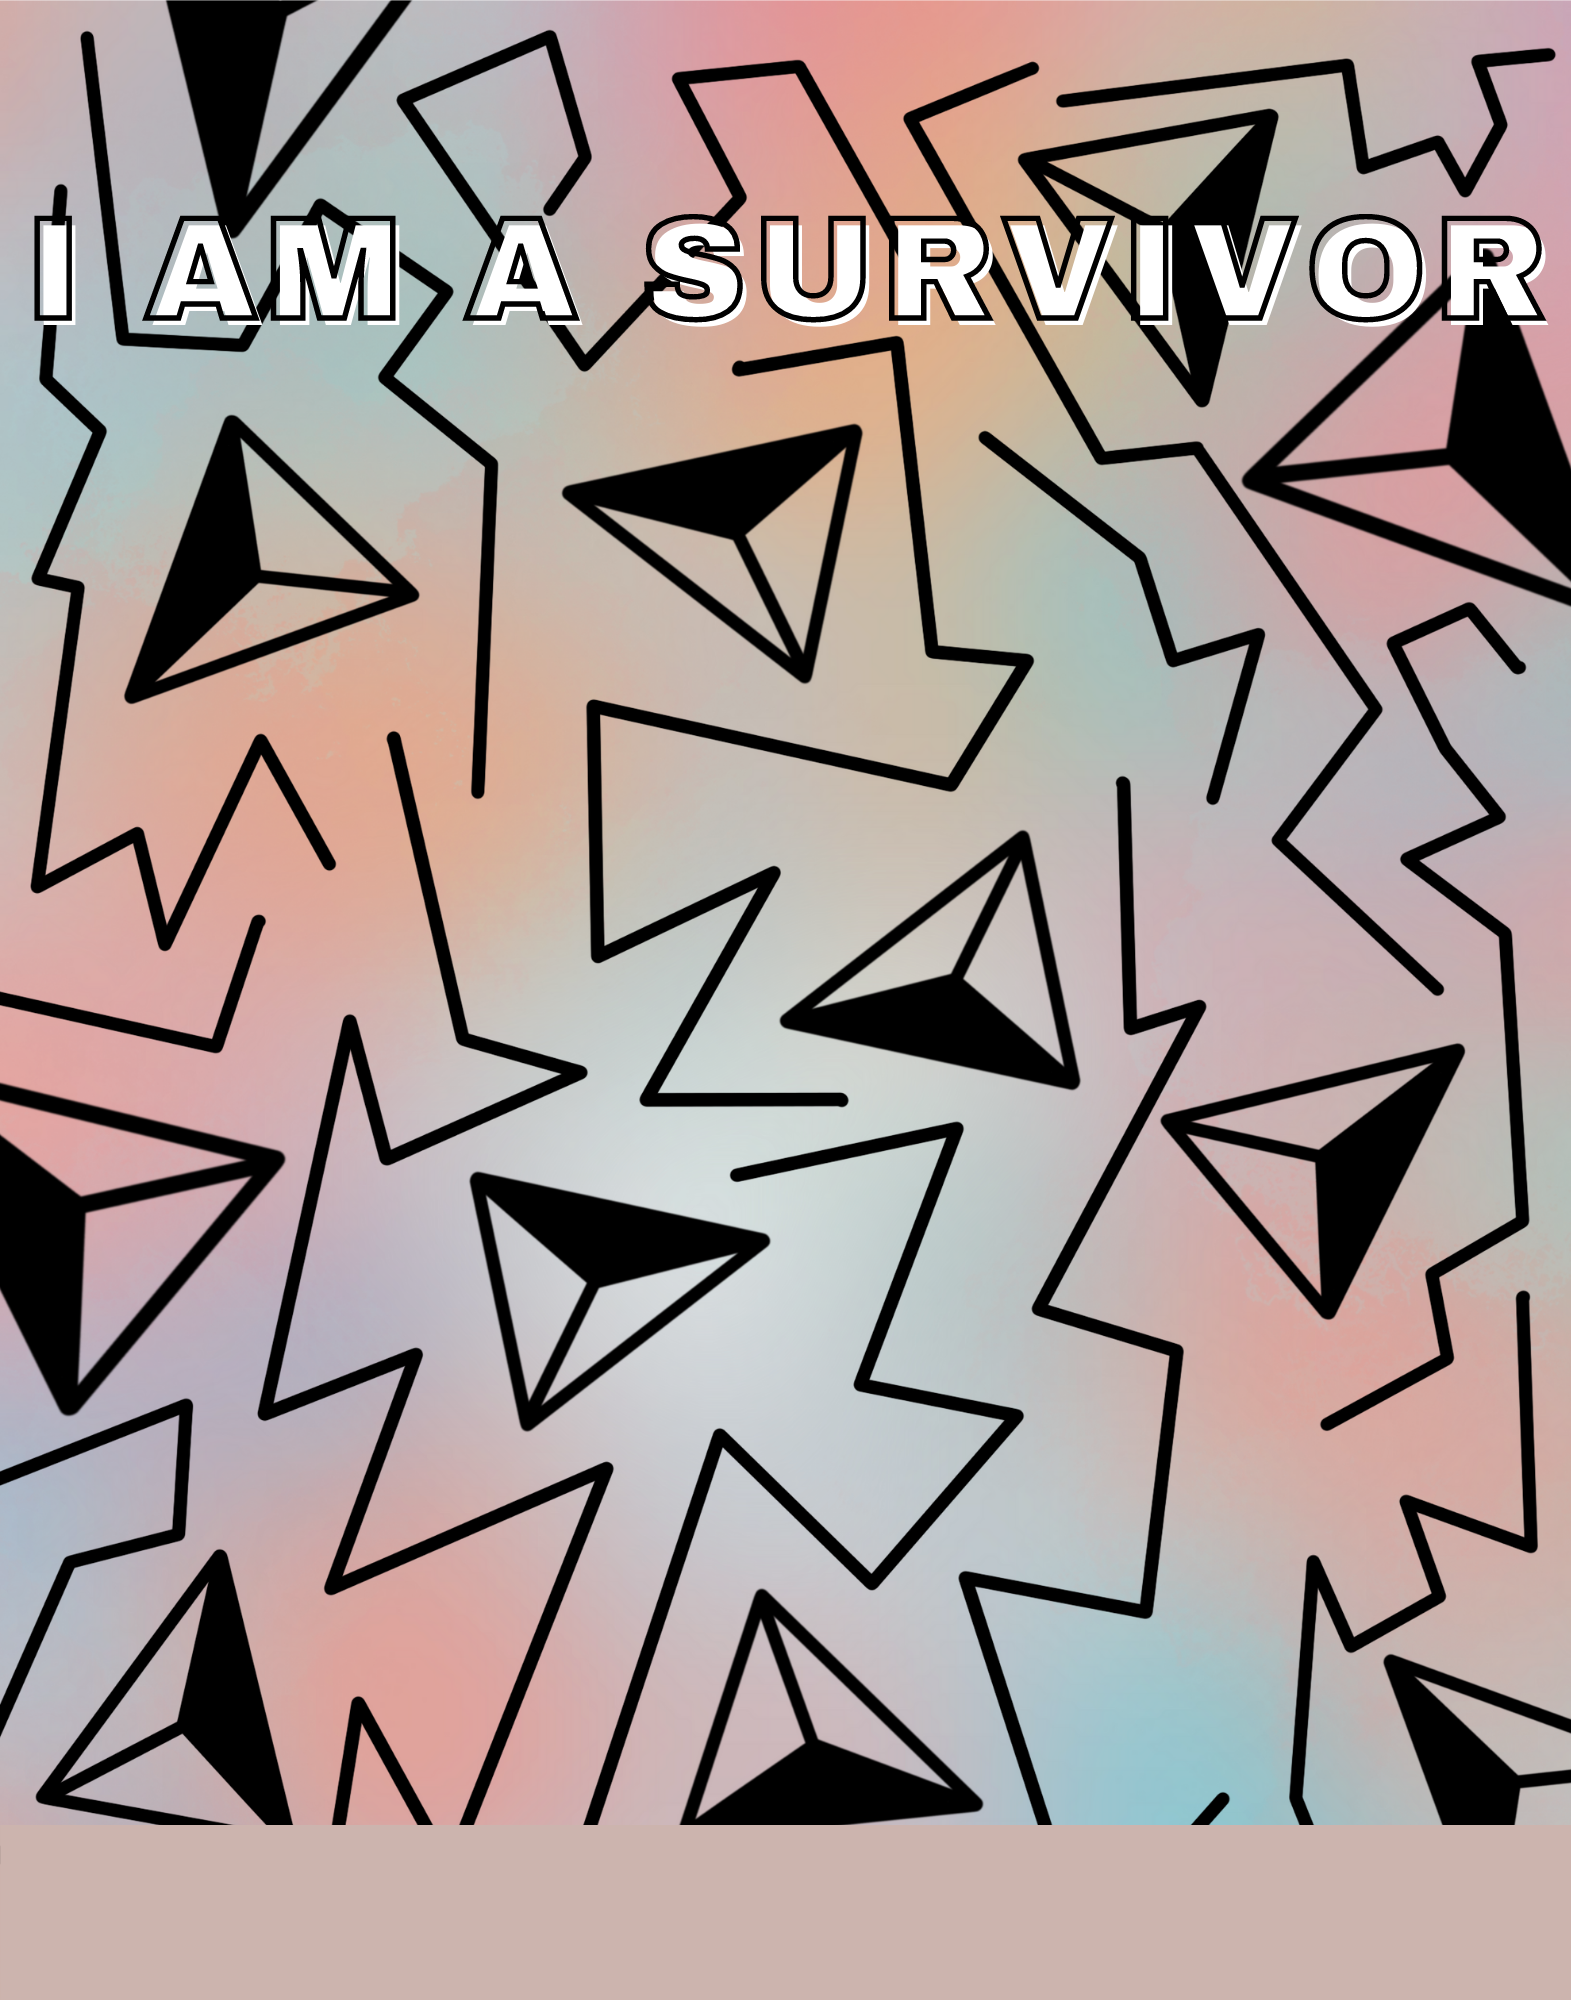
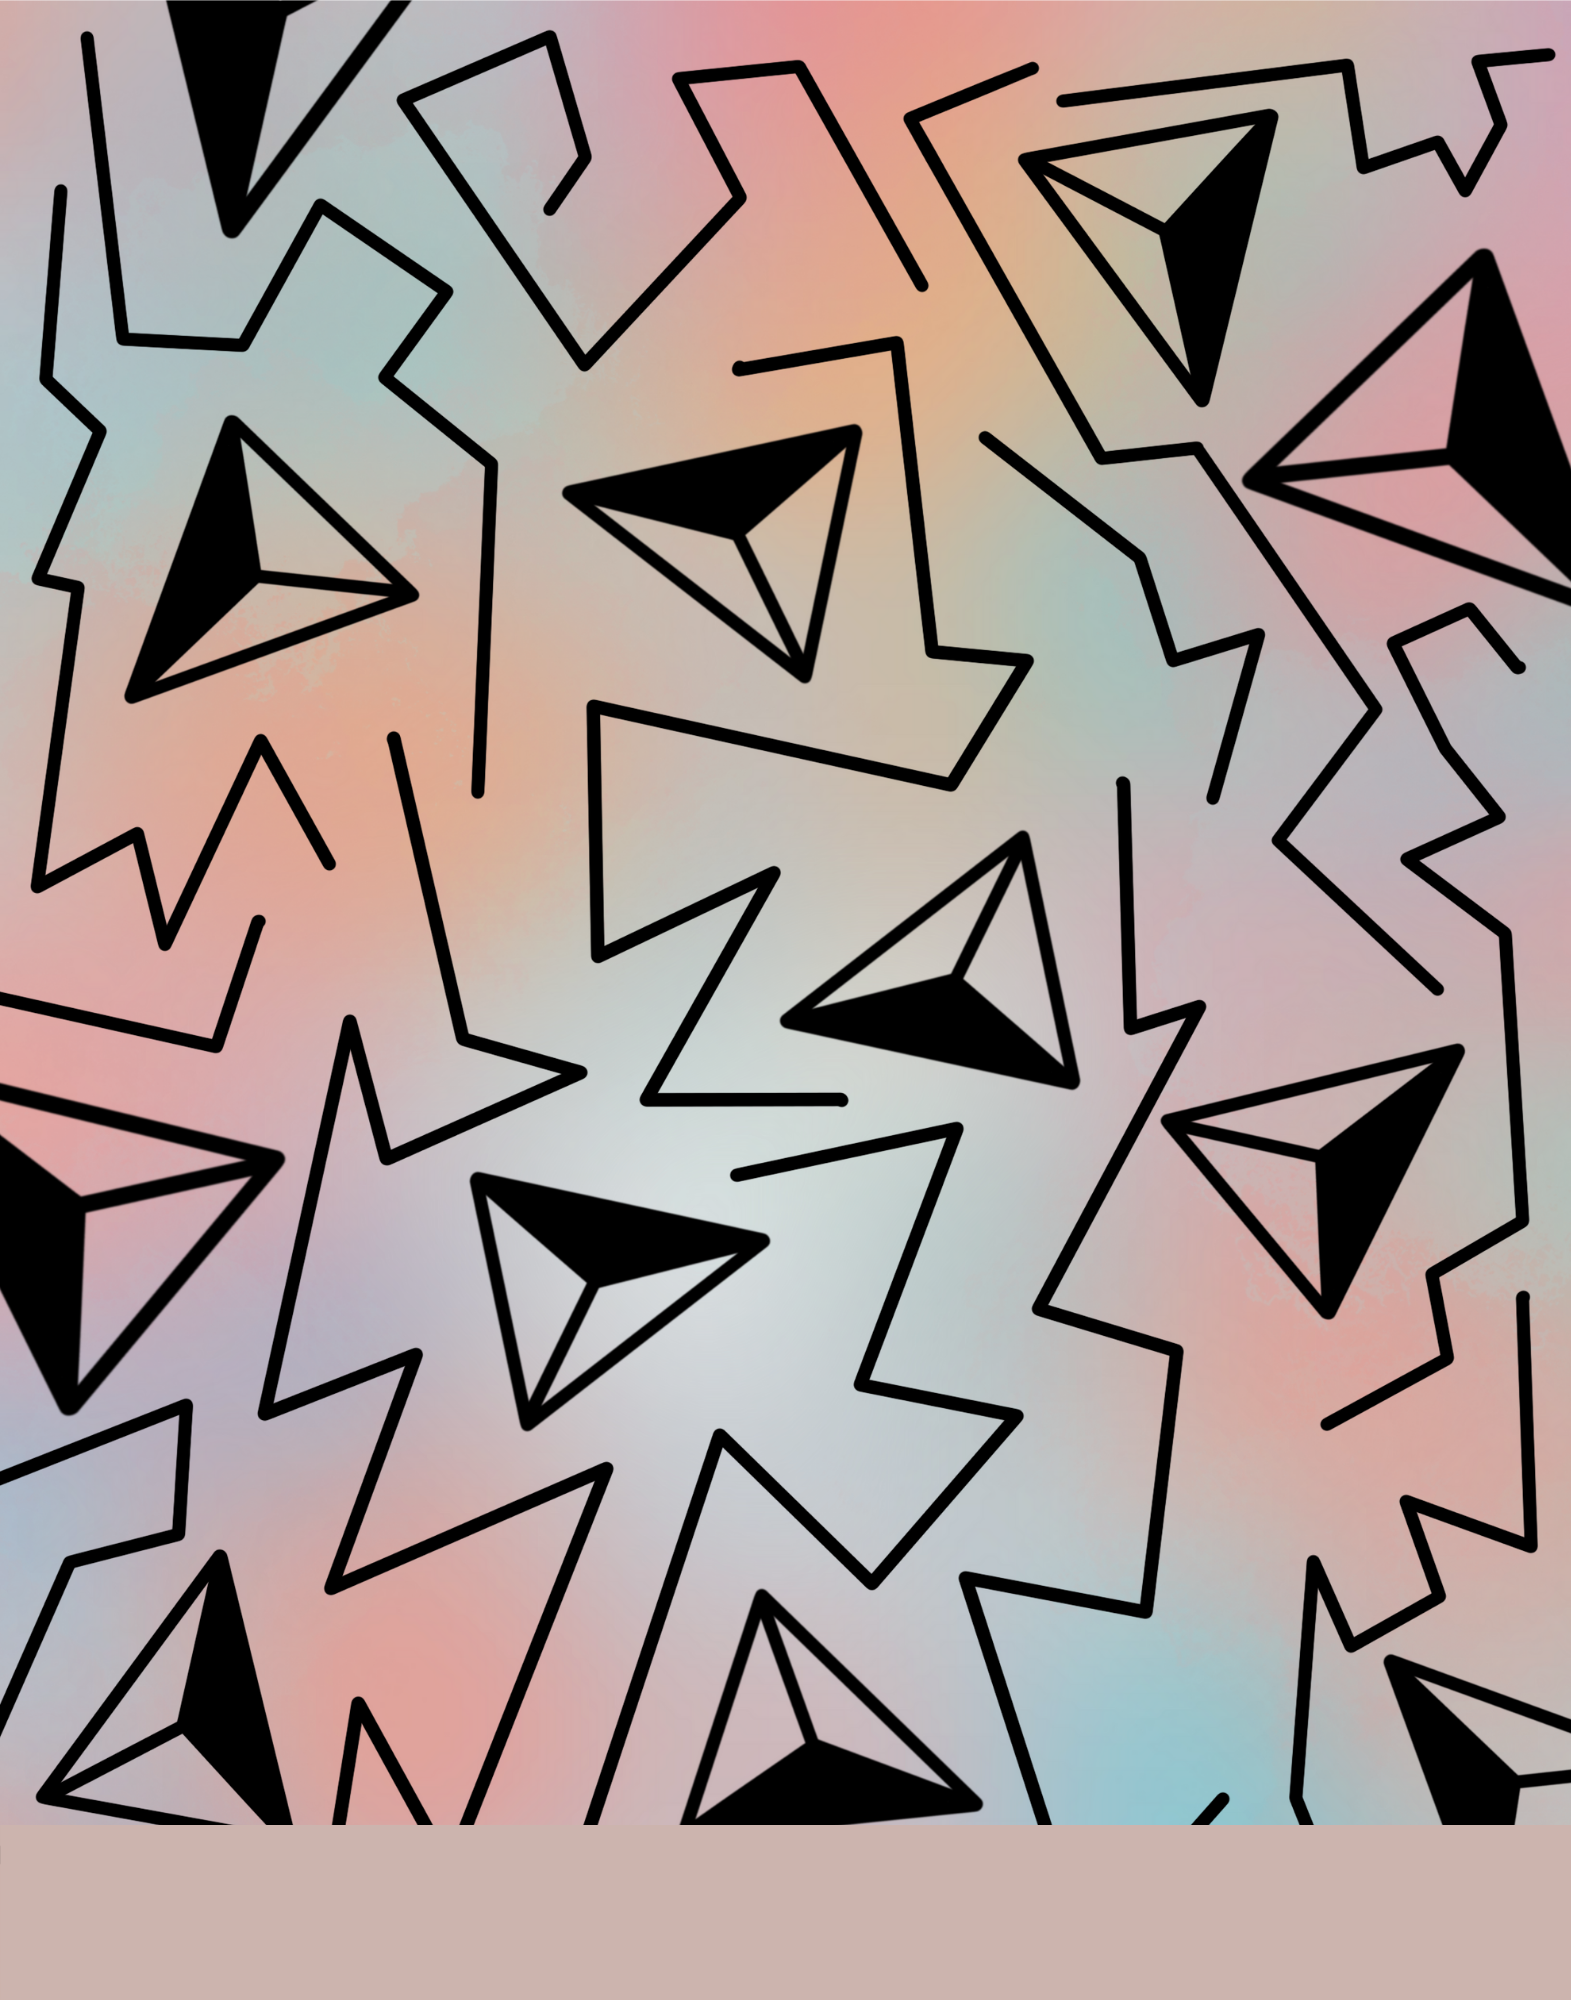
Add language support. Cleanup default picture behavior.

Changed region(s): [[0.4055, 0.093, 0.9981, 0.186], [0.0936, 0.093, 0.3743, 0.186], [0.0, 0.093, 0.0624, 0.186]]

diff --git a/src/template_form.tsx b/src/template_form.tsx
@@ -25,6 +25,7 @@ export interface Props {
 interface State {
   background?: number
   size?: number
+  language?: number
   website?: string
   program_info?: string
   logo?: string
@@ -57,6 +58,7 @@ export class TemplateForm extends Component<Props, State> {
     this.state = {
       background: 0,
       size: 0,
+      language: 0,
       website: "",
       program_info: "",
       use_default_pic: true,
@@ -70,6 +72,7 @@ export class TemplateForm extends Component<Props, State> {
     this.setState({
       background: 0,
       size: 0,
+      language: 0,
       website: "",
       program_info: "",
       logo: undefined,
@@ -180,17 +183,21 @@ export class TemplateForm extends Component<Props, State> {
 
   private getRenderChildren(): Array<RenderElement> {
     let campaign = this.props.campaign;
+    let language = campaign.languages[this.state.language];
     let background = campaign.backgrounds[this.state.background];
     let size = campaign.sizes[this.state.size];
     let children: Array<RenderElement> = [
         new ImageElement(`${campaign.assetPath}/${background.name.toLowerCase()}_${size.name.toLowerCase()}.png`,
             {x: 0, y: 0, width: size.width, height: size.height}),
     ];
-    if (size.subheader && !this.state.use_default_pic) {
-      children.push(this.toImageElement(size.subheader, `${campaign.assetPath}/${background.name.toLowerCase()}_subheader.png`));
+    if (size.header) {
+      children.push(this.toImageElement(size.header, `${campaign.assetPath}/header_${language.toLowerCase()}.png`));
     }
-    if (this.state.use_default_pic) {
-      children.push(this.toImageElement(size.picture, `${campaign.assetPath}/${background.name.toLowerCase()}_defaultpicture.png`));
+    if (size.defaultPicture && this.state.use_default_pic) {
+      children.push(this.toImageElement(size.defaultPicture, `${campaign.assetPath}/${background.name.toLowerCase()}_defaultpicture_${language.toLowerCase()}.png`));
+    }
+    if (size.antiDefaultPicture && !this.state.use_default_pic) {
+      children.push(this.toImageElement(size.antiDefaultPicture, `${campaign.assetPath}/${background.name.toLowerCase()}_antidefaultpicture_${language.toLowerCase()}.png`));
     }
     if (size.picture && this.state.pic) {
       children.push(this.toImageElement(size.picture, this.state.pic));
@@ -220,18 +227,24 @@ export class TemplateForm extends Component<Props, State> {
           <Grid.Row>
             <Grid.Column width={8}>
               <Form>
+                <Form.Field>
+                  <label>Background</label>
+                  <Select options={this.props.campaign.backgrounds.map((bg, idx) => {return {value: idx, text: bg.name}})}
+                          value={this.state.background}
+                          onChange={(e, data) => this.setState({background: data.value as number})} />
+                </Form.Field>
                 <Form.Group widths="equal">
-                  <Form.Field>
-                    <label>Background</label>
-                    <Select options={this.props.campaign.backgrounds.map((bg, idx) => {return {value: idx, text: bg.name}})}
-                            value={this.state.background}
-                            onChange={(e, data) => this.setState({background: data.value as number})} />
-                  </Form.Field>
                   <Form.Field>
                     <label>Size</label>
                     <Select options={this.props.campaign.sizes.map((size, idx) => {return {value: idx, text: size.name}})}
                             value={this.state.size}
                             onChange={(e, data) => this.setState({size: data.value as number})} />
+                  </Form.Field>
+                  <Form.Field>
+                    <label>Language</label>
+                    <Select options={this.props.campaign.languages.map((language, idx) => {return {value: idx, text: language}})}
+                            value={this.state.language}
+                            onChange={(e, data) => this.setState({language: data.value as number})} />
                   </Form.Field>
                 </Form.Group>
                 <Form.Field>

diff --git a/src/demo.ts b/src/demo.ts
@@ -2,6 +2,7 @@ import {Campaign} from "./model";
 
 export const DEMO_CAMPAIGN: Campaign = {
     assetPath: "images",
+    languages: ["English", "Spanish"],
     backgrounds: [
         {name: "Boundaries", color: "#ffbd59"},
         {name: "Deserve", color: "#f36e80"},
@@ -19,7 +20,22 @@ export const DEMO_CAMPAIGN: Campaign = {
             name: "11x14",
             width: 1571,
             height: 2000,
-            subheader: {
+            header: {
+                x: 0,
+                y: 214,
+                width: 1571,
+                height: 1786,
+                horizontalAlignment: 'center',
+                verticalAlignment: 'top',
+            },
+            defaultPicture: {
+                x: 0,
+                y: 380,
+                width: 1571,
+                height: 1445,
+                horizontalAlignment: 'center',
+            },
+            antiDefaultPicture: {
                 x: 0,
                 y: 355,
                 width: 1571,
@@ -60,7 +76,22 @@ export const DEMO_CAMPAIGN: Campaign = {
             name: "Square",
             width: 1571,
             height: 1571,
-            subheader: {
+            header: {
+                x: 0,
+                y: 214,
+                width: 1571,
+                height: 1357,
+                horizontalAlignment: 'center',
+                verticalAlignment: 'top',
+            },
+            defaultPicture: {
+                x: 0,
+                y: 380,
+                width: 1571,
+                height: 1016,
+                horizontalAlignment: 'center',
+            },
+            antiDefaultPicture: {
                 x: 0,
                 y: 355,
                 width: 1571,

diff --git a/src/model.ts b/src/model.ts
@@ -1,13 +1,25 @@
+import {Image} from "semantic-ui-react";
 
 export interface SizeSpec {
     name: string
     width: number
     height: number
 
-    subheader?: ImageSpec
+    // The header is always displayed, but the image source can vary based on language
+    header?: ImageSpec
+    // A default picture that will be displayed. The image source depends on background and language. It can be turned off in the form
+    defaultPicture?: ImageSpec
+    // A non-editable picture that gets displayed when defaultPicture is disabled in the form. This is used to include a subheader
+    // containing text that is in the default picture. Image source can vary depending on language
+    antiDefaultPicture?: ImageSpec
+
+    // The user-uploaded picture that can be chosen if defaultPicture gets disabled.
     picture?: ImageSpec
+    // The user-uploaded logo
     logo?: ImageSpec
+    // User-specified website/social media text
     website?: TextSpec
+    // User-specified program information text
     programInfo?: TextSpec
 }
 
@@ -49,4 +61,5 @@ export interface Campaign {
     assetPath: string
     backgrounds: BackgroundSpec[]
     sizes: SizeSpec[]
+    languages: string[]
 }
